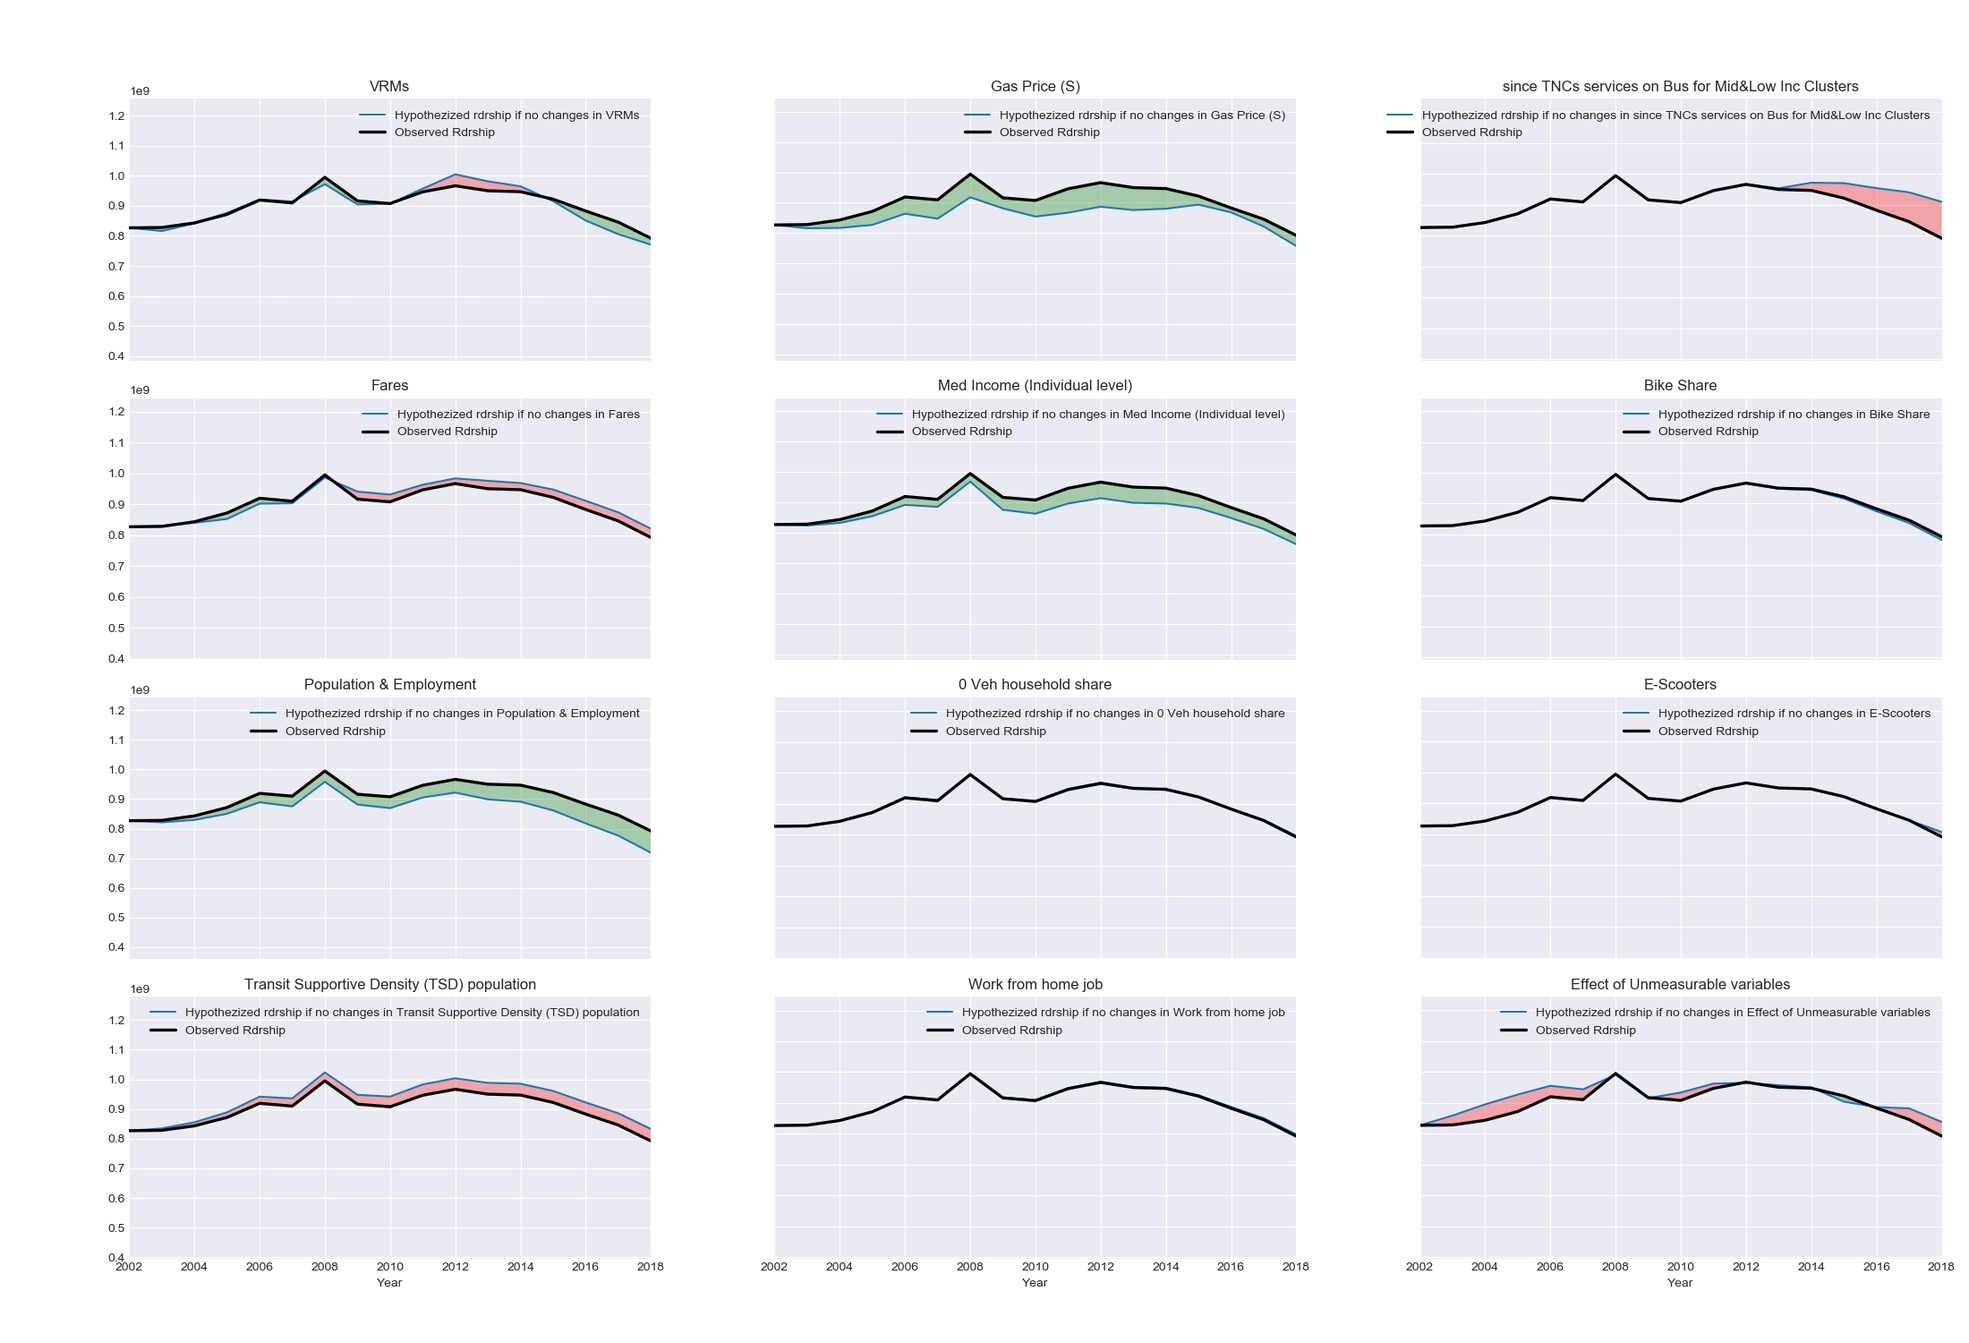
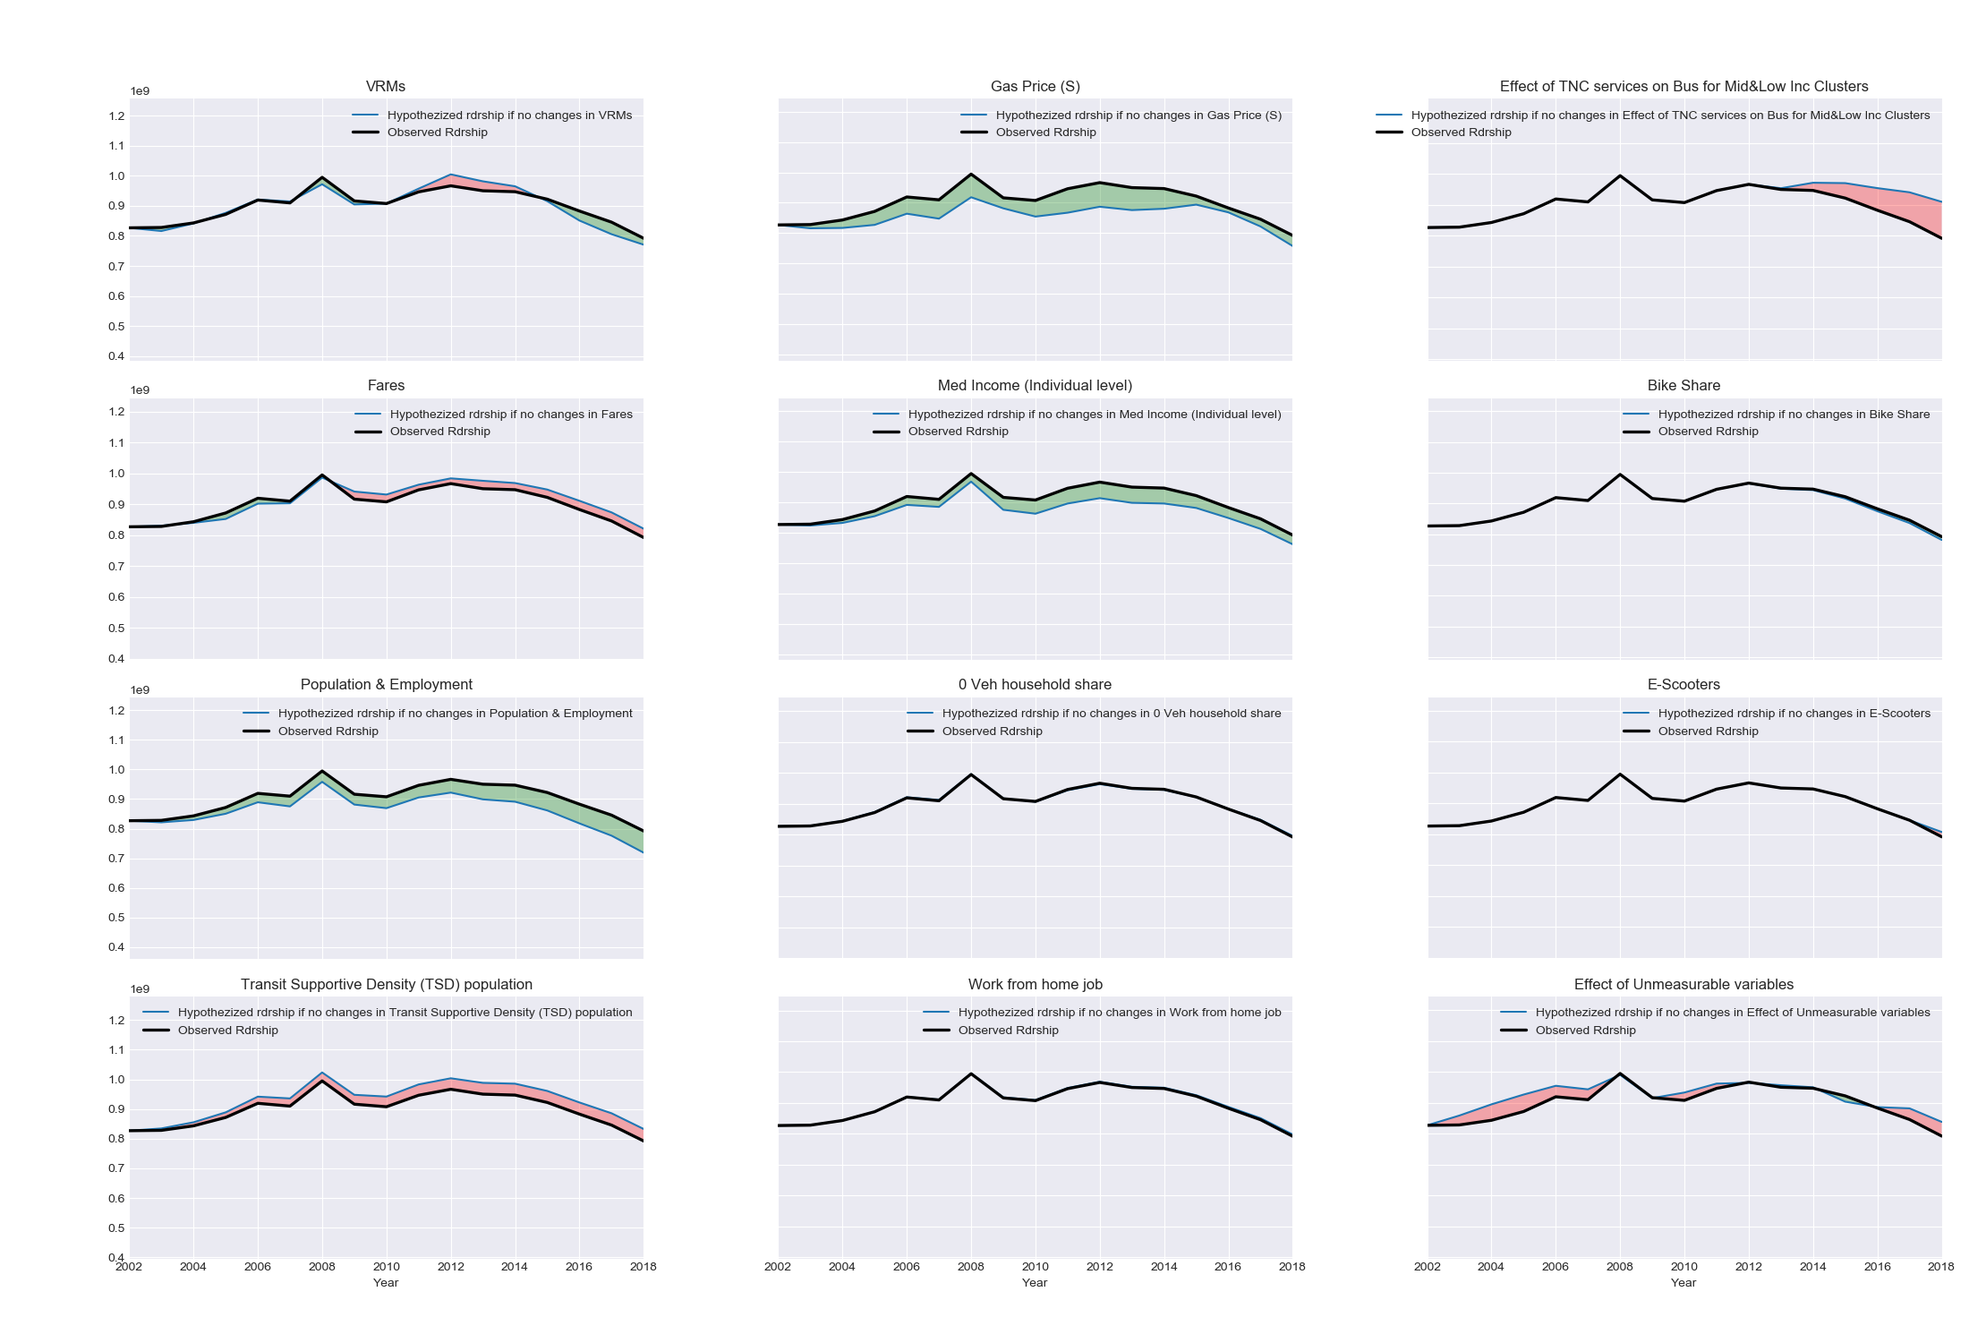
Refined the code to include clusterwise ridership trend (rail and bus)
As suggested by Prof. Erhardt, included chart which gives snapshot for clusterwise trend on ridership in one chart. Est7 - (absolute) Clusterwise Ridership Trends.png

diff --git a/Factors and Ridership Data/code/Script-Est7v2.0.py b/Factors and Ridership Data/code/Script-Est7v2.0.py
@@ -70,10 +70,10 @@ def prepare_charts(_df_org, _clustername, _filename, _startyear, _endyear):
                               # 'Immigrant population',
                               '0 Veh household share',
                               'Work from home job',
-                              'since TNCs services on Bus for High Inc/NY',
-                              'since TNCs services on Bus for Mid&Low Inc Clusters',
-                              'since TNCs services on Rail for High Inc/NY',
-                              'since TNCs services on Rail for Mid&Low Inc Clusters',
+                              'Effect of TNC services on Bus for High Inc/NY',
+                              'Effect of TNC services on Bus for Mid&Low Inc Clusters',
+                              'Effect of TNC services on Rail for High Inc/NY',
+                              'Effect of TNC services on Rail for Mid&Low Inc Clusters',
                               'Bike Share',
                               'E-Scooters',
                               'Effect of Unmeasurable variables']
@@ -85,9 +85,9 @@ def prepare_charts(_df_org, _clustername, _filename, _startyear, _endyear):
                 chartcols.remove('UPT_ADJ_YEARS_SINCE_TNC_RAIL2_MIDLOW_FAC_cumsum')
                 chartcols.remove('UPT_ADJ_YEARS_SINCE_TNC_RAIL2_HINY_FAC_cumsum')
 
-                subplot_labels.remove('since TNCs services on Bus for Mid&Low Inc Clusters')
-                subplot_labels.remove('since TNCs services on Rail for Mid&Low Inc Clusters')
-                subplot_labels.remove('since TNCs services on Rail for High Inc/NY')
+                subplot_labels.remove('Effect of TNC services on Bus for Mid&Low Inc Clusters')
+                subplot_labels.remove('Effect of TNC services on Rail for Mid&Low Inc Clusters')
+                subplot_labels.remove('Effect of TNC services on Rail for High Inc/NY')
 
             if ((cluster == 1) or (cluster == 10)) and (mode == 1):
                 mode_name = "RAIL"
@@ -95,9 +95,9 @@ def prepare_charts(_df_org, _clustername, _filename, _startyear, _endyear):
                 chartcols.remove('UPT_ADJ_YEARS_SINCE_TNC_RAIL2_MIDLOW_FAC_cumsum')
                 chartcols.remove('UPT_ADJ_YEARS_SINCE_TNC_BUS2_HINY_FAC_cumsum')
 
-                subplot_labels.remove('since TNCs services on Bus for Mid&Low Inc Clusters')
-                subplot_labels.remove('since TNCs services on Rail for Mid&Low Inc Clusters')
-                subplot_labels.remove('since TNCs services on Bus for High Inc/NY')
+                subplot_labels.remove('Effect of TNC services on Bus for Mid&Low Inc Clusters')
+                subplot_labels.remove('Effect of TNC services on Rail for Mid&Low Inc Clusters')
+                subplot_labels.remove('Effect of TNC services on Bus for High Inc/NY')
 
             if ((cluster == 2) or (cluster == 3)) and (mode == 0):
                 mode_name = "BUS"
@@ -105,9 +105,9 @@ def prepare_charts(_df_org, _clustername, _filename, _startyear, _endyear):
                 chartcols.remove('UPT_ADJ_YEARS_SINCE_TNC_RAIL2_HINY_FAC_cumsum')
                 chartcols.remove('UPT_ADJ_YEARS_SINCE_TNC_BUS2_HINY_FAC_cumsum')
 
-                subplot_labels.remove('since TNCs services on Rail for Mid&Low Inc Clusters')
-                subplot_labels.remove('since TNCs services on Rail for High Inc/NY')
-                subplot_labels.remove('since TNCs services on Bus for High Inc/NY')
+                subplot_labels.remove('Effect of TNC services on Rail for Mid&Low Inc Clusters')
+                subplot_labels.remove('Effect of TNC services on Rail for High Inc/NY')
+                subplot_labels.remove('Effect of TNC services on Bus for High Inc/NY')
 
             if ((cluster == 2) or (cluster == 3)) and (mode == 1):
                 mode_name = "RAIL"
@@ -115,9 +115,9 @@ def prepare_charts(_df_org, _clustername, _filename, _startyear, _endyear):
                 chartcols.remove('UPT_ADJ_YEARS_SINCE_TNC_RAIL2_HINY_FAC_cumsum')
                 chartcols.remove('UPT_ADJ_YEARS_SINCE_TNC_BUS2_HINY_FAC_cumsum')
 
-                subplot_labels.remove('since TNCs services on Bus for Mid&Low Inc Clusters')
-                subplot_labels.remove('since TNCs services on Rail for High Inc/NY')
-                subplot_labels.remove('since TNCs services on Bus for High Inc/NY')
+                subplot_labels.remove('Effect of TNC services on Bus for Mid&Low Inc Clusters')
+                subplot_labels.remove('Effect of TNC services on Rail for High Inc/NY')
+                subplot_labels.remove('Effect of TNC services on Bus for High Inc/NY')
 
             df_fltr_mode = df_fltr_mod[df_fltr_mod.Mode == mode]
             col = 0
@@ -127,8 +127,7 @@ def prepare_charts(_df_org, _clustername, _filename, _startyear, _endyear):
             for chartcol, subplotlable in zip(chartcols, subplot_labels):
                 df_fltr_mode.groupby('Mode').plot(x='Year', y=str(chartcol),
                                                   label='Hypothezized rdrship if no changes in ' + str(
-                                                      subplotlable),
-                                                  ax=ax[row][col], legend=True)
+                                                      subplotlable), ax=ax[row][col], legend=True)
                 df_fltr_mode.groupby('Mode').plot(x='Year', y='UPT_ADJ', label='Observed Rdrship', ax=ax[row][col],
                                                   legend=True, color='black', linewidth=2.4)
                 # Paint the area
@@ -323,10 +322,10 @@ def get_cluster_chart_raw(_df, _filename, _chart_name, _clusterfile):
                               # 'Immigrant population',
                               '0 Veh household share',
                               'Work from home job',
-                              'TNCs services on Bus for High Inc/NY',
-                              'TNCs services on Bus for Mid&Low Inc Clusters',
-                              'TNCs services on Rail for High Inc/NY',
-                              'TNCs services on Rail for Mid&Low Inc Clusters',
+                              'Effect of TNC services on Bus for High Inc/NY',
+                              'Effect of TNC services on Bus for Mid&Low Inc Clusters',
+                              'Effect of TNC services on Rail for High Inc/NY',
+                              'Effect of TNC services on Rail for Mid&Low Inc Clusters',
                               'Bike Share',
                               'E-Scooters',
                               'Unlinked Passenger Trips (UPTs)']
@@ -336,9 +335,9 @@ def get_cluster_chart_raw(_df, _filename, _chart_name, _clusterfile):
                 chartcols.remove('YEARS_SINCE_TNC_RAIL2_MIDLOW')
                 chartcols.remove('YEARS_SINCE_TNC_RAIL2_HINY')
 
-                subplot_labels.remove('TNCs services on Bus for Mid&Low Inc Clusters')
-                subplot_labels.remove('TNCs services on Rail for Mid&Low Inc Clusters')
-                subplot_labels.remove('TNCs services on Rail for High Inc/NY')
+                subplot_labels.remove('Effect of TNC services on Bus for Mid&Low Inc Clusters')
+                subplot_labels.remove('Effect of TNC services on Rail for Mid&Low Inc Clusters')
+                subplot_labels.remove('Effect of TNC services on Rail for High Inc/NY')
 
             if ((cluster == 1) or (cluster == 10)) and (mode == 1):
                 mode_name = "RAIL"
@@ -346,9 +345,9 @@ def get_cluster_chart_raw(_df, _filename, _chart_name, _clusterfile):
                 chartcols.remove('YEARS_SINCE_TNC_RAIL2_MIDLOW')
                 chartcols.remove('YEARS_SINCE_TNC_BUS2_HINY')
 
-                subplot_labels.remove('TNCs services on Bus for Mid&Low Inc Clusters')
-                subplot_labels.remove('TNCs services on Rail for Mid&Low Inc Clusters')
-                subplot_labels.remove('TNCs services on Bus for High Inc/NY')
+                subplot_labels.remove('Effect of TNC services on Bus for Mid&Low Inc Clusters')
+                subplot_labels.remove('Effect of TNC services on Rail for Mid&Low Inc Clusters')
+                subplot_labels.remove('Effect of TNC services on Bus for High Inc/NY')
 
             if ((cluster == 2) or (cluster == 3)) and (mode == 0):
                 mode_name = "BUS"
@@ -356,9 +355,9 @@ def get_cluster_chart_raw(_df, _filename, _chart_name, _clusterfile):
                 chartcols.remove('YEARS_SINCE_TNC_RAIL2_HINY')
                 chartcols.remove('YEARS_SINCE_TNC_BUS2_HINY')
 
-                subplot_labels.remove('TNCs services on Rail for Mid&Low Inc Clusters')
-                subplot_labels.remove('TNCs services on Rail for High Inc/NY')
-                subplot_labels.remove('TNCs services on Bus for High Inc/NY')
+                subplot_labels.remove('Effect of TNC services on Rail for Mid&Low Inc Clusters')
+                subplot_labels.remove('Effect of TNC services on Rail for High Inc/NY')
+                subplot_labels.remove('Effect of TNC services on Bus for High Inc/NY')
 
             if ((cluster == 2) or (cluster == 3)) and (mode == 1):
                 mode_name = "RAIL"
@@ -366,9 +365,9 @@ def get_cluster_chart_raw(_df, _filename, _chart_name, _clusterfile):
                 chartcols.remove('YEARS_SINCE_TNC_RAIL2_HINY')
                 chartcols.remove('YEARS_SINCE_TNC_BUS2_HINY')
 
-                subplot_labels.remove('TNCs services on Bus for Mid&Low Inc Clusters')
-                subplot_labels.remove('TNCs services on Rail for High Inc/NY')
-                subplot_labels.remove('TNCs services on Bus for High Inc/NY')
+                subplot_labels.remove('Effect of TNC services on Bus for Mid&Low Inc Clusters')
+                subplot_labels.remove('Effect of TNC services on Rail for High Inc/NY')
+                subplot_labels.remove('Effect of TNC services on Bus for High Inc/NY')
 
             df_fltr_mode = df_fltr_mod[df_fltr_mod.Mode == mode]
             col = 0
@@ -433,7 +432,6 @@ def get_cluster_chart_raw(_df, _filename, _chart_name, _clusterfile):
         print("Successfully created " + figname)
 
 
-
 def get_cluster_file_raw(_filename, _clusterfile):
     filename = _filename
     clusterfile = _clusterfile
@@ -449,7 +447,128 @@ def get_cluster_file_raw(_filename, _clusterfile):
                 get_cluster_chart_raw(df, filename, chart_name, clusterfile)
         except FileNotFoundError:
             print("File could not be found. Please check the file is placed in the folder path - Factors and Ridership "
-                "Data\Model Estimation\Est7")
+                  "Data\Model Estimation\Est7")
+    except FileNotFoundError:
+        print("System error, in cluster_level_chart_function")
+
+
+def get_clusterwise_UPTs(_df, _filename, _chart_name, _clusterfile):
+    try:
+        df_org = _df
+        filename = _filename
+        chart_name = _chart_name
+        clustercolumn = _clusterfile
+        # get unique values
+        yrs = df_org['Year'].unique()
+        yrs.sort()
+        clusters = df_org[clustercolumn].unique()
+        clusters.sort()
+        df_org.rename(columns={'RAIL_FLAG': 'Mode'}, inplace=True)
+        modes = df_org['Mode'].unique()
+        modes.sort()
+        mode_name = ""
+        figcounter = 1
+        clusternumber = 1
+        x = 1
+        fig, ax = plt.subplots(nrows=2, ncols=2, figsize=(22, 15), constrained_layout=False)
+        col = 0
+        row = 0
+        for cluster in clusters:
+            df_fltr = df_org[df_org[clustercolumn] == cluster]
+            # Print the cluster
+            col_index = df_fltr.columns.get_loc(clustercolumn)
+            cluster_code = str(df_fltr.iloc[0, col_index])
+            print('Cluster Code:' + str(cluster_code))
+            df_fltr['Year'] = pd.to_datetime(df_fltr['Year'].astype(str), format='%Y')
+            df_fltr_mod = df_fltr.set_index(pd.DatetimeIndex(df_fltr['Year']).year)
+            # Initialize the figure
+            plt.style.use('seaborn-darkgrid')
+            chartcols = ['UPT_ADJ']
+            subplot_labels = ['Unlinked Passenger Trips']
+            for mode in modes:
+                df_fltr_mode = df_fltr_mod[df_fltr_mod.Mode == mode]
+                if mode == 0:
+                    mode_name = "BUS"
+                else:
+                    mode_name = "RAIL"
+
+                for chartcol, subplotlable in zip(chartcols, subplot_labels):
+                    df_fltr_mode.groupby('Mode').plot(x='Year', y=str(chartcol),
+                                                      label=(str(subplotlable) + ' - ' + mode_name),
+                                                      ax=ax[row][col], legend=True)
+                    ax[row][col].legend(loc='best', fontsize=10)
+                    ax[row][col].set_title(str(subplotlable))
+                    ax[row][col].set_autoscaley_on(True)
+                    try:
+                        ax[row][col].grid(True)
+                        ax[row][col].margins(0.20)
+                    except ValueError:
+                        pass
+            if row >= 1:
+                row = 0
+                col += 1
+            else:
+                row += 1
+
+        for z in fig.get_axes():
+            z.label_outer()
+
+        fig.tight_layout(rect=[0.03, 0.03, 1, 0.95])
+        _figno = x
+        # get the abs path of the directory of the code/script
+        # Factors and Ridership Data\ code
+        current_dir = pathlib.Path(__file__).parent.absolute()
+        # Change the directory
+        # \Script Outputs
+        # change the directory to where the file would be saved
+        current_dir = current_dir.parents[0] / 'Script Outputs'
+        os.chdir(str(current_dir))
+        print("Current set directory: ", current_dir)
+        outputdirectory = "Est7_Outputs"
+        p = pathlib.Path(outputdirectory)
+        p.mkdir(parents=True, exist_ok=True)
+        current_dir = current_dir.parents[0] / 'Script Outputs' / outputdirectory
+        os.chdir(str(current_dir))
+        # Axis title
+        # fig.text(0.5, 0.02, 'Year', ha='center', va='center', fontsize=16)
+        figlabel = ""
+
+        fig.text(0.02, 0.5, 'Ridership', ha='center', va='baseline', rotation='vertical',
+                 fontsize=16)
+        figname = ("Est7 - (absolute)" + " Clusterwise Ridership Trends" + ".png")
+        figcounter += 1
+        figlabel = ""
+
+        fig.savefig(figname)
+
+        plt.suptitle("Clusterwise Ridership Trends", fontsize=10)
+
+        plt.close(fig)
+        x += 1
+        clusternumber += 1
+        print("Successfully created " + figname)
+
+
+    except SystemError:
+        print("Functional error, in get_clusterwise_UPTs_function")
+
+
+def get_clusterwise_only_UPTs(_filename, _clusterfile):
+    filename = _filename
+    clusterfile = _clusterfile
+    try:
+        chart_name = filename.split('.')[0]
+        # get the absolute path of the script and then check if the csv file exists or not
+        current_dir = pathlib.Path(__file__).parent.absolute()
+        current_dir = current_dir.parents[0] / 'Model Estimation' / 'Est7'
+        os.chdir(str(current_dir))
+        try:
+            if (current_dir / filename).is_file():
+                df = pd.read_csv(filename)
+                get_clusterwise_UPTs(df, filename, chart_name, clusterfile)
+        except FileNotFoundError:
+            print("File could not be found. Please check the file is placed in the folder path - Factors and Ridership "
+                  "Data\Model Estimation\Est7")
     except FileNotFoundError:
         print("System error, in cluster_level_chart_function")
 
@@ -458,10 +577,12 @@ def main():
     # get the UPT_FAC files created according to the base year
     # base year 2002
     # create_upt_fac_cluster_file("FAC_totals_APTA4_CLUSTERS.csv", "CLUSTER_APTA4", 2002, 2018)
-    # # base year 2012
+    # # # base year 2012
     # create_upt_fac_cluster_file("FAC_totals_APTA4_CLUSTERS.csv", "CLUSTER_APTA4", 2012, 2018)
-    # # get absolute charts
-    get_cluster_file_raw("UPT_FAC_totals_APTA4_CLUSTERS_b2002.csv", "CLUSTER_APTA4")
+    # # # get absolute charts
+    # get_cluster_file_raw("UPT_FAC_totals_APTA4_CLUSTERS_b2002.csv", "CLUSTER_APTA4")
+    # # get upt only charts
+    get_clusterwise_only_UPTs("UPT_FAC_totals_APTA4_CLUSTERS_b2002.csv", "CLUSTER_APTA4")
 
 
 if __name__ == "__main__":

diff --git a/Factors and Ridership Data/code/Script_Est7.py b/Factors and Ridership Data/code/Script_Est7.py
@@ -238,7 +238,6 @@ def create_upt_fac_total_apta4_cluster_b2002(_filename, _clustervalue, _startyea
     prepare_charts(df_org, cluster_values, _filename, startyear, endyear)
 
 
-
 # prepare the file for charts
 def create_upt_fac_total_apta4_b2012(_filename, _clustervalue, _startyear, _endyear):
     # get the abs path of the directory of the code/script
@@ -336,7 +335,7 @@ def prepare_charts_pivot(_df_org, _clustername, _filename, _startyear, _endyear)
         # # num = 0
         x = 1
         for mode in modes:
-            if cluster == 3 and mode ==0:
+            if cluster == 3 and mode == 0:
                 continue
             else:
                 chartcols = ['UPT_ADJ_VRM_ADJ_log_FAC_cumsum',
@@ -558,7 +557,7 @@ def get_cluster_chart_FAC(_df, _filename, _chart_name, _clusterfile):
         transparency = 0.1
         transparency = transparency
         for mode in modes:
-            if cluster == 3 and mode ==0:
+            if cluster == 3 and mode == 0:
                 continue
             else:
                 # # Print the cluster
@@ -758,7 +757,7 @@ def get_cluster_chart_raw(_df, _filename, _chart_name, _clusterfile):
         transparency = transparency
         # # Print the cluster
         for mode in modes:
-            if cluster ==3 and mode ==0:
+            if cluster == 3 and mode == 0:
                 continue
             else:
                 x = 1
